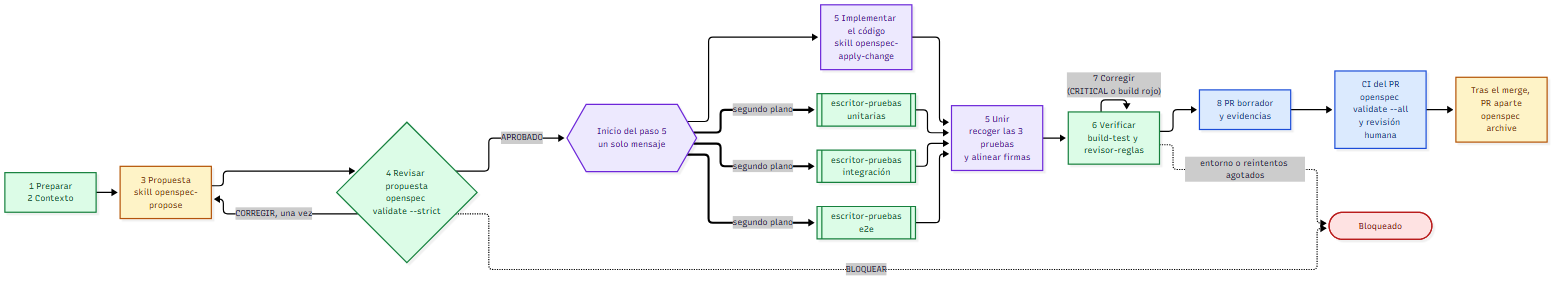
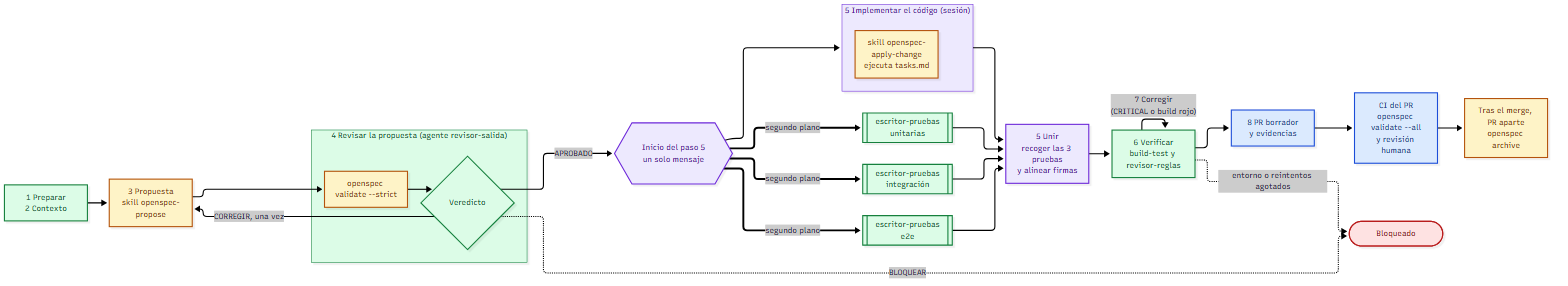
docs: pasos 4 y 5 del diagrama con el skill o comando de OpenSpec dentro del actor

Changed region(s): [[0.0, 0.0, 1.0, 0.9859], [0.8438, 0.7324, 0.9375, 0.8732]]

diff --git a/docs/flujo-orquestador.md b/docs/flujo-orquestador.md
@@ -18,11 +18,17 @@ SDD (desarrollo guiado por especificaciones) significa que primero se escribe qu
 ```mermaid
 flowchart LR
     S12["1 Preparar<br/>2 Contexto"] --> S3["3 Propuesta<br/>skill openspec-propose"]
-    S3 --> REV{"4 Revisar propuesta<br/>openspec validate --strict"}
-    REV -->|CORREGIR, una vez| S3
-    REV -->|APROBADO| INI{{"Inicio del paso 5<br/>un solo mensaje"}}
+    subgraph REV["4 Revisar la propuesta (agente revisor-salida)"]
+        OV["openspec validate --strict"] --> VER{"Veredicto"}
+    end
+    S3 --> OV
+    VER -->|CORREGIR, una vez| S3
+    VER -->|APROBADO| INI{{"Inicio del paso 5<br/>un solo mensaje"}}
 
-    INI --> S5["5 Implementar el código<br/>skill openspec-apply-change"]
+    subgraph S5["5 Implementar el código (sesión)"]
+        OA["skill openspec-apply-change<br/>ejecuta tasks.md"]
+    end
+    INI --> S5
     INI ==>|"segundo plano"| TU[["escritor-pruebas<br/>unitarias"]]
     INI ==>|"segundo plano"| TI[["escritor-pruebas<br/>integración"]]
     INI ==>|"segundo plano"| TE[["escritor-pruebas<br/>e2e"]]
@@ -38,7 +44,7 @@ flowchart LR
     S8 --> CI["CI del PR<br/>openspec validate --all<br/>y revisión humana"]
     CI --> ARC["Tras el merge, PR aparte<br/>openspec archive"]
 
-    REV -.->|BLOQUEAR| BLOQ(["Bloqueado"])
+    VER -.->|BLOQUEAR| BLOQ(["Bloqueado"])
     V6 -.->|entorno o reintentos agotados| BLOQ
 
     classDef openspec fill:#fef3c7,stroke:#b45309,color:#78350f
@@ -46,9 +52,11 @@ flowchart LR
     classDef agente fill:#dcfce7,stroke:#15803d,color:#14532d
     classDef gha fill:#dbeafe,stroke:#1d4ed8,color:#1e3a8a
     classDef bloq fill:#fee2e2,stroke:#b91c1c,color:#7f1d1d
-    class S3,ARC openspec
-    class S5,UNI,INI sesion
-    class S12,REV,TU,TI,TE,V6 agente
+    class S3,OA,OV,ARC openspec
+    class UNI,INI sesion
+    style S5 fill:#ede9fe,stroke:#6d28d9,color:#4c1d95
+    class S12,VER,TU,TI,TE,V6 agente
+    style REV fill:#dcfce7,stroke:#15803d,color:#14532d
     class S8,CI gha
     class BLOQ bloq
 ```
@@ -59,9 +67,9 @@ flowchart LR
 
 | Color | Actor | Qué hace |
 |---|---|---|
-| Violeta | La **sesión del orquestador** (opus) | Escribe el código de producción, lanza y recoge a los agentes de pruebas, y corrige |
+| Violeta | La **sesión del orquestador** (opus) | Escribe el código de producción, lanza y recoge a los agentes de pruebas, y corrige. Un cuadro violeta o verde con otro amarillo adentro es la sesión o el agente usando una herramienta de OpenSpec |
 | Verde | **Agentes** de `.claude/agents/` (sonnet) | `preparador` (1), `revisor-salida` (4), tres `escritor-pruebas` (5) y `revisor-reglas` (6). El paso 2 es un script y `build-test` del paso 6 es un skill, pero van dentro de un paso con agente |
-| Amarillo | **OpenSpec** (skills `openspec-*` y su CLI) | Genera la propuesta (3) y archiva el change tras el merge |
+| Amarillo | **OpenSpec** (skills `openspec-*` y su CLI) | Genera la propuesta (3), valida la propuesta (4, dentro del agente), guía la implementación (5, dentro de la sesión) y archiva el change tras el merge |
 | Azul | **Commit y PR, CI de GitHub y la persona** | Skills `commit` y `abrir-pr` (8), CI del PR y revisión humana, que es quien fusiona |
 | Rojo | Estado de **bloqueo** | El flujo se detiene y se avisa a la persona |
 
